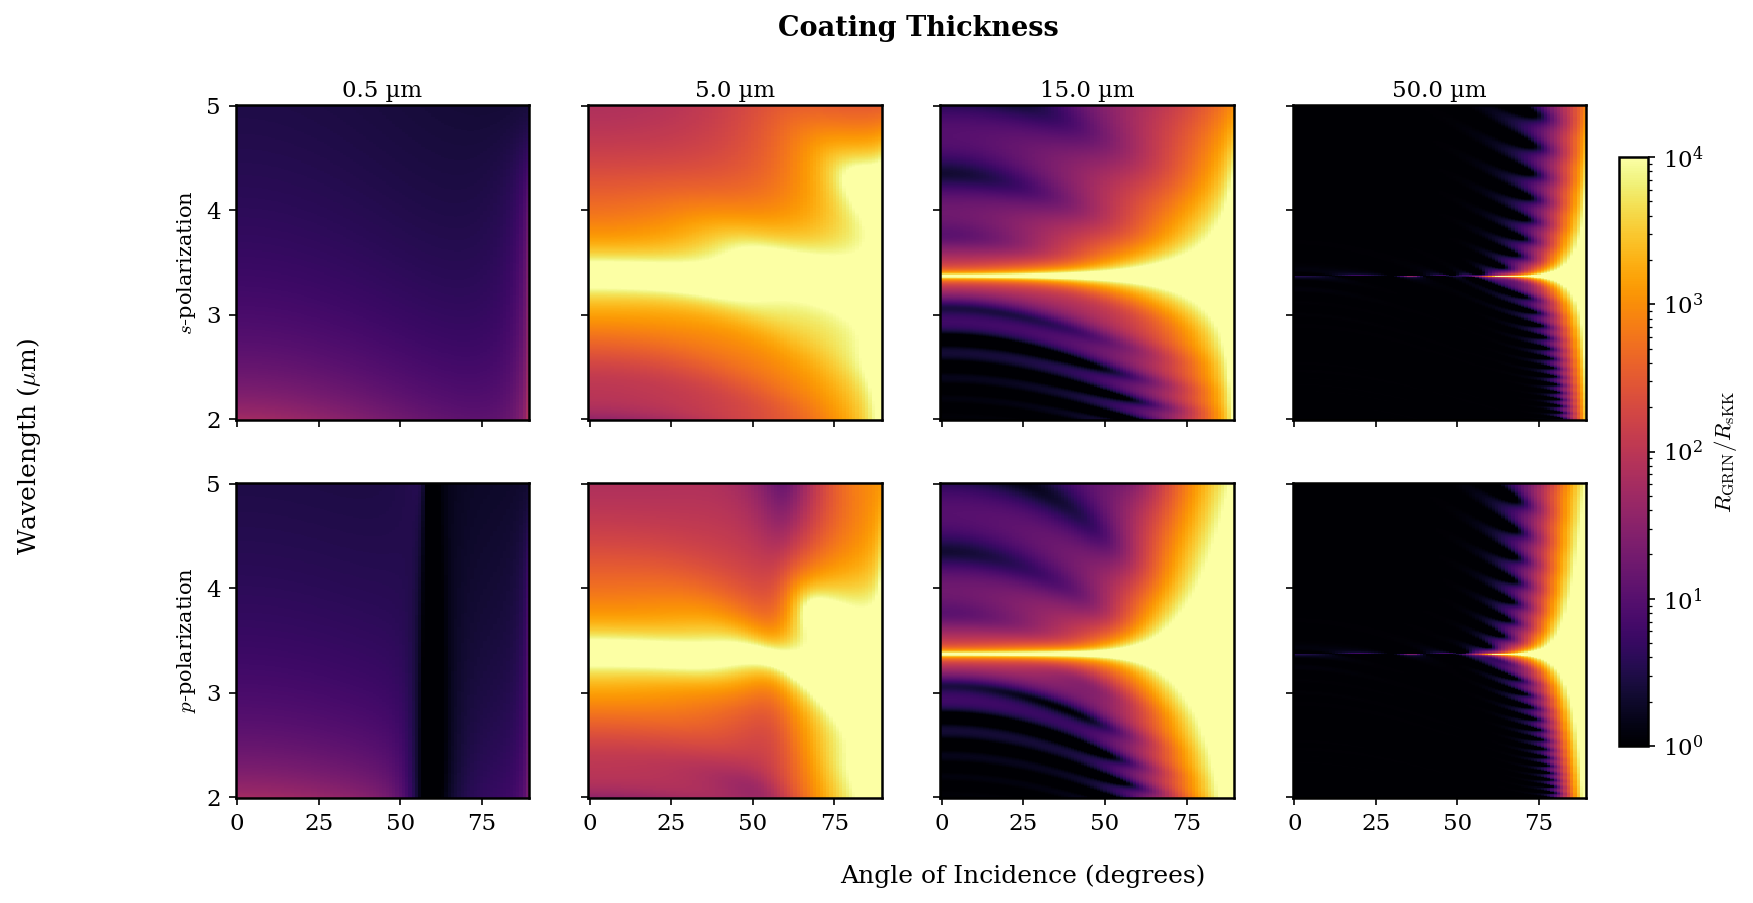
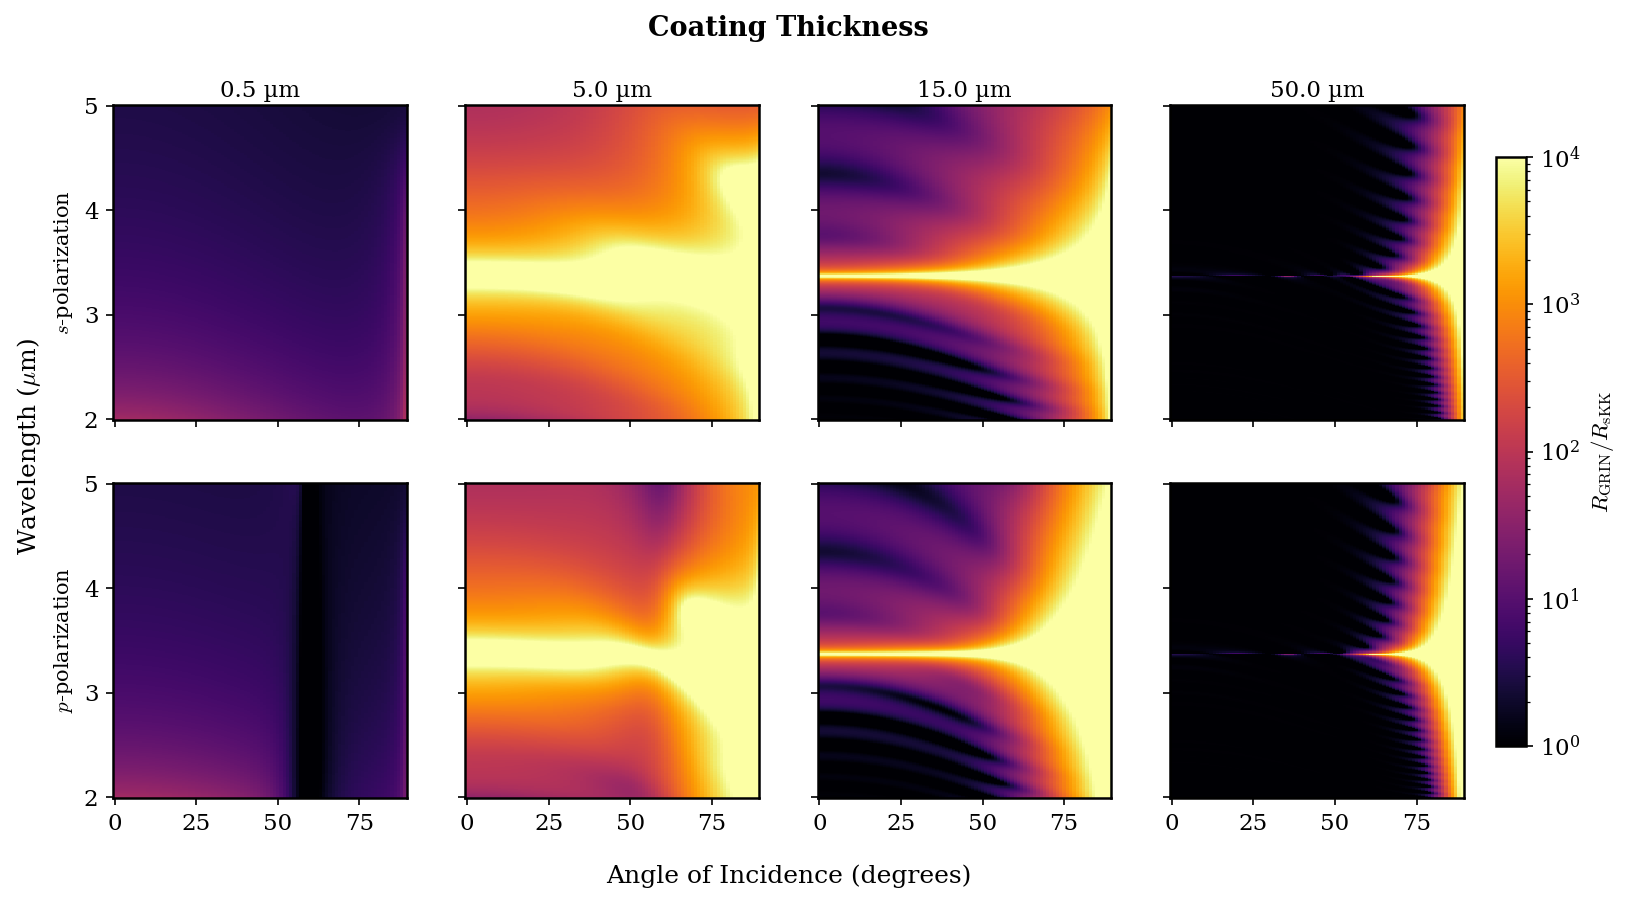
Center x-label and tighten y-label on colorplot figures

diff --git a/theory/skk_analysis_consolidated.py b/theory/skk_analysis_consolidated.py
@@ -1500,12 +1500,18 @@ def fig_task1_colorplots(S):
             if col == 0:
                 ax.set_ylabel(pol_labels[row], fontsize=10)
 
-    fig.text(0.45, 0.98, 'Coating Thickness', fontsize=13, ha='center', va='top',
-             fontweight='bold')
-    fig.supxlabel('Angle of Incidence (degrees)', fontsize=12)
-    fig.supylabel(r'Wavelength ($\mu$m)', fontsize=12)
     cbar = fig.colorbar(im, ax=axes, location='right', shrink=0.85, pad=0.02)
     cbar.set_label(r'$R_{\mathrm{GRIN}} / R_{\mathrm{sKK}}$', fontsize=11)
+    fig.canvas.draw()
+    left = axes[0, 0].get_position().x0
+    right = axes[0, -1].get_position().x1
+    xc = (left + right) / 2
+    fig.text(xc, 0.98, 'Coating Thickness', fontsize=13, ha='center', va='top',
+             fontweight='bold')
+    fig.text(xc, 0.01, 'Angle of Incidence (degrees)', fontsize=12,
+             ha='center', va='bottom')
+    fig.text(left - 0.04, 0.5, r'Wavelength ($\mu$m)', fontsize=12,
+             ha='center', va='center', rotation='vertical')
     plt.savefig(f'{S.FIGDIR}/colorplot_ratio_GRIN_over_sKK.png', dpi=150,
                 bbox_inches='tight')
     plt.close()
@@ -2026,12 +2032,18 @@ def fig_thick_colorplots(S):
             if col == 0:
                 ax.set_ylabel(pol_labels[row], fontsize=10)
 
-    fig.text(0.45, 0.98, 'Coating Thickness', fontsize=13, ha='center', va='top',
-             fontweight='bold')
-    fig.supxlabel('Angle of Incidence (degrees)', fontsize=12)
-    fig.supylabel(r'Wavelength ($\mu$m)', fontsize=12)
     cbar = fig.colorbar(im, ax=axes, location='right', shrink=0.85, pad=0.02)
     cbar.set_label(r'$R_{\mathrm{bare}} / R_{\mathrm{sKK}}$', fontsize=11)
+    fig.canvas.draw()
+    left = axes[0, 0].get_position().x0
+    right = axes[0, -1].get_position().x1
+    xc = (left + right) / 2
+    fig.text(xc, 0.98, 'Coating Thickness', fontsize=13, ha='center', va='top',
+             fontweight='bold')
+    fig.text(xc, 0.01, 'Angle of Incidence (degrees)', fontsize=12,
+             ha='center', va='bottom')
+    fig.text(left - 0.04, 0.5, r'Wavelength ($\mu$m)', fontsize=12,
+             ha='center', va='center', rotation='vertical')
     plt.savefig(f'{S.FIGDIR}/colorplot_ratio_bare_over_sKK.png', dpi=150,
                 bbox_inches='tight')
     plt.close()
